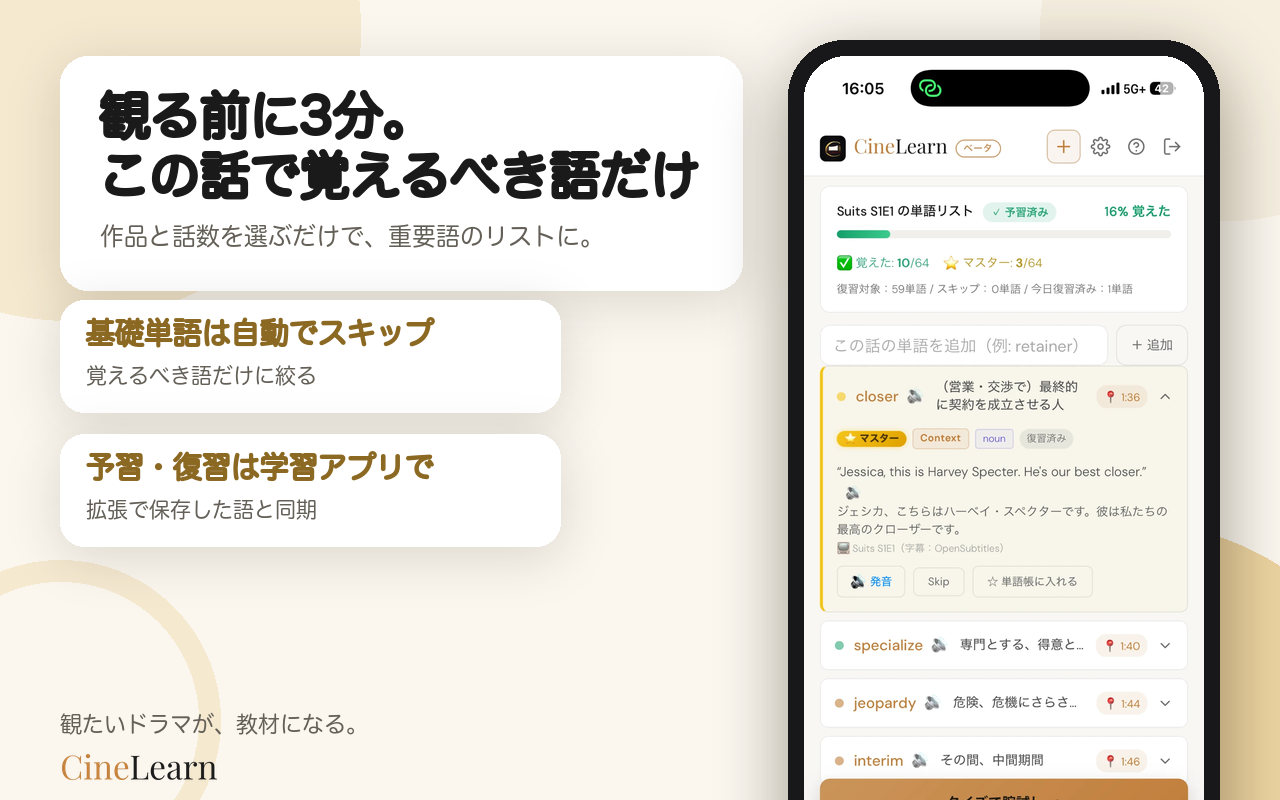
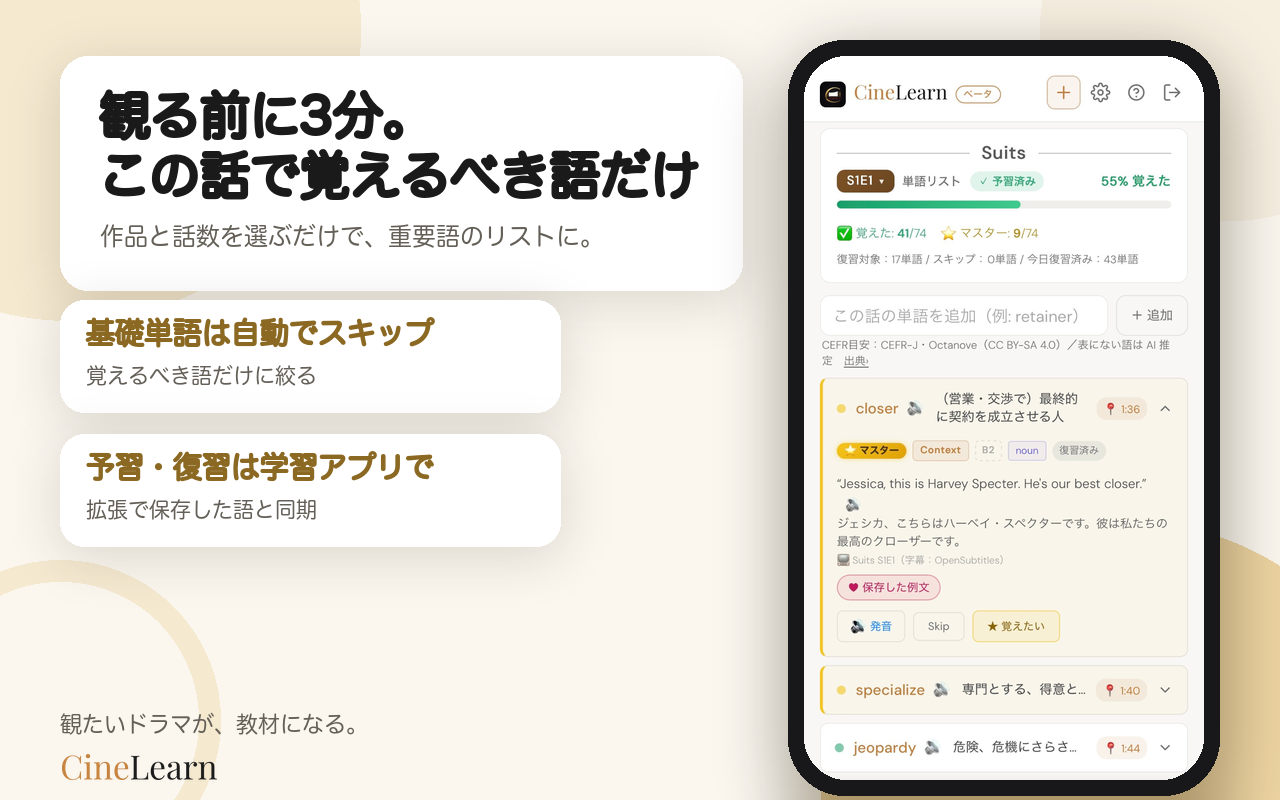
marketing: v1.2.12 のストア画像 03（予習リスト）を今の単語リストで作り直し（オーナーの iPhone 2026-11-08・下のナビは切り落とし）

Changed region(s): [[0.5938, 0.0625, 0.9688, 1.0], [0.8438, 0.2188, 0.9062, 0.2812], [0.875, 0.5, 0.9062, 0.5312]]

diff --git a/marketing/x-launch-2026-10/make_cards.py b/marketing/x-launch-2026-10/make_cards.py
@@ -171,7 +171,7 @@ def make_cws():
     # A3 予習画面
     shot_card('観る前に3分。\nこの話で覚えるべき語だけ','作品と話数を選ぶだけで、重要語のリストに。',
         [('基礎単語は自動でスキップ','覚えるべき語だけに絞る'),('予習・復習は学習アプリで','拡張で保存した語と同期')],
-        f'{A}/03-prep-list.png','01-vocab-list.png',phone_y=40)
+        f'{A}/03-prep-list.png','prep-list-v1.2.12.png',phone_y=40)  # v1.2.12: 今の単語リスト（オーナーの iPhone 2026-11-08・下のナビは切り落とし）
     # A4 字幕マーカー（クリーム色＋点線）
     panel_card('他の作品で覚えた単語に、\n字幕の中で再会','控えめな印。設定でオフにもできる。',
         [('淡いクリーム色の印','保存した語・この話の予習語'),('細い点線の印','他の作品で出会った語。出所も分かる')],
